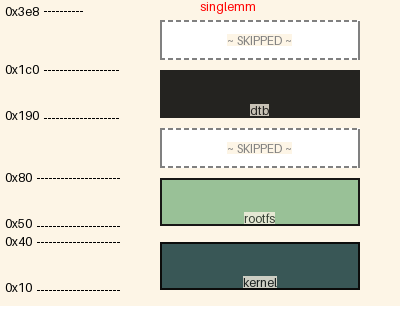
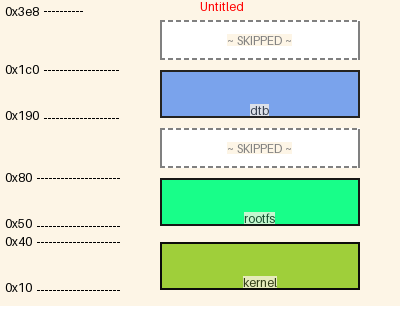
updated map name lbl

diff --git a/mm/diagram.py b/mm/diagram.py
@@ -47,8 +47,8 @@ class MemoryMapDiagram:
         self.voidthreshold: int = int(Diagram.pargs.voidthreshold, 16)
         """Void space threshold for adding VoidRegionImage objs"""
 
-        self.top_addr_lbl = mm.image.TextLabelImage(hex(Diagram.model.diagram_height), self.fixed_legend_text_size)
-        """Make sure this is created after rescale"""
+
+        self.name_lbl = mm.image.TextLabelImage(self.name, self.fixed_legend_text_size, font_colour="red")
 
         self.final_image_full: PIL.Image.Image = None
         """Final image for this Memory Map - without void regions"""
@@ -115,14 +115,14 @@ class MemoryMapDiagram:
             self, 
             image_list: List[mm.image.MemoryRegionImage]):
         
+        # map_name_lbl = mm.image.TextLabelImage(self.name, self.fixed_legend_text_size, font_colour="red")
         new_diagram_img = PIL.Image.new(
             "RGBA", 
             (self.width, 
              self.height), 
             color=Diagram.model.diagram_bgcolour)
         
-        map_name_lbl = mm.image.TextLabelImage(self.name, self.fixed_legend_text_size, font_colour="red")
-        new_diagram_img.paste(im=map_name_lbl.img, box=(new_diagram_img.width // 2, new_diagram_img.height - map_name_lbl.height ))
+        # new_diagram_img.paste(im=map_name_lbl.img, box=(new_diagram_img.width // 2, new_diagram_img.height - map_name_lbl.height ))
         # paste each new graphic element image to main image
         alpha = 255
         for memregion in image_list:
@@ -224,11 +224,10 @@ class MemoryMapDiagram:
             self.final_image_reduced = original_img
 
         else:
-            # calculate the new reduced diagram image height plus some padding
             new_cropped_height = (
                 sum(img.height for img in region_subset_list)
                 + (len(region_subset_list) * self.voidregion.img.height)
-                + 20
+                + 20 
             )
 
             # now create the new image alternating the region subsets and void regions
@@ -237,8 +236,6 @@ class MemoryMapDiagram:
                 (self.width, new_cropped_height), 
                 color=Diagram.model.diagram_bgcolour)
             
-            map_name_lbl = mm.image.TextLabelImage(self.name, self.fixed_legend_text_size, font_colour="red")
-            new_cropped_image.paste(im=map_name_lbl.img, box=(new_cropped_image.width // 2, new_cropped_height - map_name_lbl.height ))
         
             y_pos = 0
             for region_subset in region_subset_list:
@@ -299,6 +296,12 @@ class Diagram:
             full_diagram_img.paste(
                 mmd.final_image_full, 
                 (idx * mmd.width, 0))
+            # add the name label
+            full_diagram_img = full_diagram_img.transpose(PIL.Image.FLIP_TOP_BOTTOM)
+            full_diagram_img.paste(
+                mmd.name_lbl.img, 
+                ((idx * mmd.width) + (mmd.final_image_full.width // 2), full_diagram_img.height - mmd.name_lbl.img.height))
+            full_diagram_img = full_diagram_img.transpose(PIL.Image.FLIP_TOP_BOTTOM)
             
         # Top address text for the whole diagram
         top_addr = Diagram.model.diagram_height
@@ -342,10 +345,14 @@ class Diagram:
         for idx, mmd in enumerate(self.mmd_list):
             # draw maps upside-down so that their bottom edges line up together (image origin is top-left)
             mmd.final_image_reduced = mmd.final_image_reduced.transpose(PIL.Image.FLIP_TOP_BOTTOM)
+            # add the mem map diagram image
             reduced_diagram_img.paste(
                 mmd.final_image_reduced, 
                 ( (idx * mmd.width), 0))
-            # mapn_ame_lbl = mm.image.TextLabelImage(mmd., mmd.fixed_legend_text_size)
+            # add the name label
+            reduced_diagram_img.paste(
+                mmd.name_lbl.img, 
+                ((idx * mmd.width) + (mmd.final_image_reduced.width // 2), reduced_diagram_img.height - mmd.name_lbl.img.height))
 
         top_addr = Diagram.model.diagram_height
         top_addr_lbl = mm.image.TextLabelImage(hex(top_addr), mmd.fixed_legend_text_size)

diff --git a/doc/example/tests.test_docs_three_maps.md b/doc/example/tests.test_docs_three_maps.md
@@ -1,9 +1,9 @@
 ![memory map diagram](tests.test_docs_three_maps_cropped.png)
 |name|origin|size|free Space|collisions
 |:-|:-|:-|:-|:-|
-|<span style='color:turquoise'>Blob6</span>|0x50|0x96|0x302|{'Blob5': '0x50'}|
-|<span style='color:darkslateblue'>Blob3</span>|0x50|0x10|0x388|{}|
-|<span style='color:mediumpurple'>Blob5</span>|0x32|0x64|-0x46|{'Blob4': '0x32', 'Blob6': '0x50'}|
-|<span style='color:slateblue'>Blob2</span>|0x10|0x10|0x30|{}|
-|<span style='color:mediumslateblue'>Blob1</span>|0x10|0x10|0x3c8|{}|
-|<span style='color:blue'>Blob4</span>|0xa|0x3c|-0x14|{'Blob5': '0x32'}|
+|<span style='color:chartreuse'>Blob6</span>|0x50|0x96|0x302|{'Blob5': '0x50'}|
+|<span style='color:darkslategrey'>Blob3</span>|0x50|0x10|0x388|{}|
+|<span style='color:olivedrab'>Blob5</span>|0x32|0x64|-0x46|{'Blob4': '0x32', 'Blob6': '0x50'}|
+|<span style='color:darkred'>Blob2</span>|0x10|0x10|0x30|{}|
+|<span style='color:mediumblue'>Blob1</span>|0x10|0x10|0x3c8|{}|
+|<span style='color:olive'>Blob4</span>|0xa|0x3c|-0x14|{'Blob5': '0x32'}|

diff --git a/doc/example/tests.test_docs_two_maps.md b/doc/example/tests.test_docs_two_maps.md
@@ -1,8 +1,8 @@
 ![memory map diagram](tests.test_docs_two_maps_cropped.png)
 |name|origin|size|free Space|collisions
 |:-|:-|:-|:-|:-|
-|<span style='color:chartreuse'>Blob4</span>|0x100|0x10|0x2d8|{}|
-|<span style='color:darkviolet'>Blob3</span>|0x50|0x10|0x388|{}|
-|<span style='color:maroon'>Blob5</span>|0x30|0x10|0x10|{}|
-|<span style='color:darkred'>Blob1</span>|0x10|0x10|0xe0|{}|
-|<span style='color:saddlebrown'>Blob2</span>|0x10|0x10|0x10|{}|
+|<span style='color:maroon'>Blob4</span>|0x100|0x10|0x2d8|{}|
+|<span style='color:darkred'>Blob3</span>|0x50|0x10|0x388|{}|
+|<span style='color:midnightblue'>Blob5</span>|0x30|0x10|0x10|{}|
+|<span style='color:rebeccapurple'>Blob1</span>|0x10|0x10|0xe0|{}|
+|<span style='color:olive'>Blob2</span>|0x10|0x10|0x10|{}|

diff --git a/doc/example/tests.test_docs_collisions.md b/doc/example/tests.test_docs_collisions.md
@@ -1,6 +1,6 @@
 ![memory map diagram](tests.test_docs_collisions_cropped.png)
 |name|origin|size|free Space|collisions
 |:-|:-|:-|:-|:-|
-|<span style='color:skyblue'>dtb</span>|0x90|0x30|0x328|{'rootfs': '0x90'}|
-|<span style='color:lightgreen'>rootfs</span>|0x50|0x50|-0x10|{'kernel': '0x50', 'dtb': '0x90'}|
-|<span style='color:darkviolet'>kernel</span>|0x10|0x60|-0x20|{'rootfs': '0x50'}|
+|<span style='color:dimgrey'>dtb</span>|0x90|0x30|0x328|{'rootfs': '0x90'}|
+|<span style='color:darkseagreen'>rootfs</span>|0x50|0x50|-0x10|{'kernel': '0x50', 'dtb': '0x90'}|
+|<span style='color:skyblue'>kernel</span>|0x10|0x60|-0x20|{'rootfs': '0x50'}|

diff --git a/doc/example/tests.test_docs_normal.md b/doc/example/tests.test_docs_normal.md
@@ -1,6 +1,6 @@
 ![memory map diagram](tests.test_docs_normal_cropped.png)
 |name|origin|size|free Space|collisions
 |:-|:-|:-|:-|:-|
-|<span style='color:black'>dtb</span>|0x190|0x30|0x228|{}|
-|<span style='color:darkseagreen'>rootfs</span>|0x50|0x30|0x110|{}|
-|<span style='color:darkslategrey'>kernel</span>|0x10|0x30|0x10|{}|
+|<span style='color:cornflowerblue'>dtb</span>|0x190|0x30|0x228|{}|
+|<span style='color:springgreen'>rootfs</span>|0x50|0x30|0x110|{}|
+|<span style='color:yellowgreen'>kernel</span>|0x10|0x30|0x10|{}|
